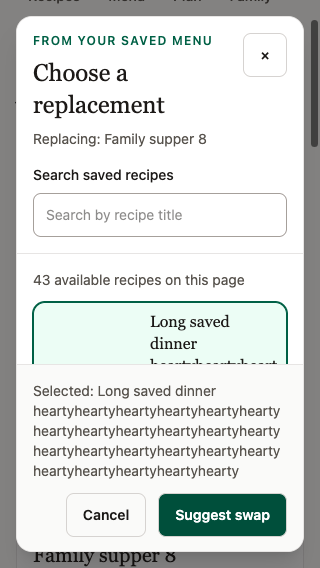
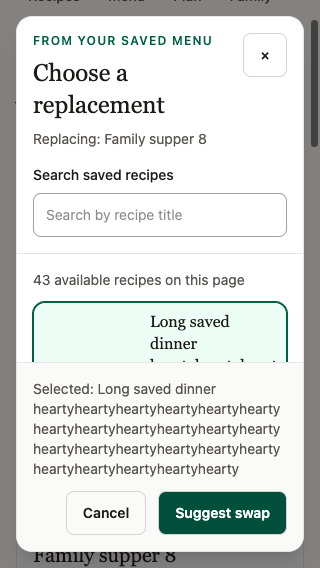
fix: keep swap modal size stable during search

Changed region(s): [[0.0938, 0.6585, 0.9062, 0.9577], [0.2188, 0.868, 0.4375, 0.9577], [0.875, 0.868, 0.9062, 0.8979]]

diff --git a/tests/plans/browser.ts b/tests/plans/browser.ts
@@ -23,7 +23,7 @@ try{
  async function openPicker(day:number){await liveBrowser.click(`[data-plan-suggest="${day}"]`);await liveBrowser.waitFor("Boolean(document.querySelector('dialog[open]')) && document.activeElement.id==='swap-search'",'modal opens with search focus');await liveBrowser.waitFor("document.querySelector('dialog [aria-busy]')?.getAttribute('aria-busy')==='false'",'bounded menu load');}
  async function searchPicker(text:string){await liveBrowser.click('#swap-search');await liveBrowser.evaluate("document.querySelector('#swap-search').select()");await liveBrowser.send('Input.insertText',{text});await liveBrowser.waitFor(`document.querySelector('#swap-search').value===${JSON.stringify(text)} && document.querySelector('dialog [aria-busy]')?.getAttribute('aria-busy')==='false'`,'search results settle');}
  async function choose(title:string){await liveBrowser.click(`[data-swap-choice][aria-label=${JSON.stringify(title)}]`);await liveBrowser.waitFor(`document.querySelector('[data-swap-choice][aria-label='+${JSON.stringify(JSON.stringify(title))}+']')?.getAttribute('aria-pressed')==='true'`,'selected recipe');}
- async function menuFixture(mode:string,delay=0){await liveBrowser.evaluate(`(()=>{const original=window.__swapOriginalFetch??window.fetch.bind(window);window.__swapOriginalFetch=original;window.__swapCancelled=false;window.__swapBodyStarted=false;let used=false;window.fetch=async(input,init)=>{const path=new URL(typeof input==='string'?input:input.url,location.href).pathname;if(used||path!=='/api/menu'||(init?.method??'GET')!=='GET')return original(input,init);used=true;const mode=${JSON.stringify(mode)},delay=${delay};if(mode==='status401'||mode==='status403')return new Response('{}',{status:Number(mode.slice(6))});if(mode==='malformed')return new Response(JSON.stringify({entries:[{bad:true}],nextCursor:null}),{status:200});if(mode==='oversized'||mode==='utf8')return new Response(new ReadableStream({start(c){c.enqueue(mode==='oversized'?new Uint8Array(524289):new Uint8Array([255]));},cancel(){window.__swapCancelled=true;}}));const real=await original(input,init);const text=await real.text();if(mode==='lateHeaders'){await new Promise(r=>setTimeout(r,delay));return new Response(text);}return new Response(new ReadableStream({start(c){window.__swapBodyStarted=true;c.enqueue(new TextEncoder().encode(text.slice(0,10)));setTimeout(()=>{try{c.enqueue(new TextEncoder().encode(text.slice(10)));c.close();}catch{}},delay);},cancel(){window.__swapCancelled=true;}}));};})()`);}
+ async function menuFixture(mode:string,delay=0){await liveBrowser.evaluate(`(()=>{const original=window.__swapOriginalFetch??window.fetch.bind(window);window.__swapOriginalFetch=original;window.__swapCancelled=false;window.__swapBodyStarted=false;let used=false;window.fetch=async(input,init)=>{const path=new URL(typeof input==='string'?input:input.url,location.href).pathname;if(used||path!=='/api/menu'||(init?.method??'GET')!=='GET')return original(input,init);used=true;const mode=${JSON.stringify(mode)},delay=${delay};if(mode==='status401'||mode==='status403')return new Response('{}',{status:Number(mode.slice(6))});if(mode==='empty')return new Response(JSON.stringify({entries:[],nextCursor:null}),{status:200});if(mode==='malformed')return new Response(JSON.stringify({entries:[{bad:true}],nextCursor:null}),{status:200});if(mode==='oversized'||mode==='utf8')return new Response(new ReadableStream({start(c){c.enqueue(mode==='oversized'?new Uint8Array(524289):new Uint8Array([255]));},cancel(){window.__swapCancelled=true;}}));const real=await original(input,init);const text=await real.text();if(mode==='lateHeaders'){await new Promise(r=>setTimeout(r,delay));return new Response(text);}return new Response(new ReadableStream({start(c){window.__swapBodyStarted=true;c.enqueue(new TextEncoder().encode(text.slice(0,10)));setTimeout(()=>{try{c.enqueue(new TextEncoder().encode(text.slice(10)));c.close();}catch{}},delay);},cancel(){window.__swapCancelled=true;}}));};})()`);}
  async function restoreFetch(){await liveBrowser.evaluate("if(window.__swapOriginalFetch){window.fetch=window.__swapOriginalFetch;delete window.__swapOriginalFetch;}");}
 
  for(let n=0;n<54;n++)await saveMenuRecipe(db,identity,allowed,{title:n===53?'Long saved dinner '+ 'hearty'.repeat(23):'Family supper '+n,sourceUrl:'https://example.test/weekly/'+n,imageUrl:n===53?'https://images.recipe-fixture.test/photo.svg':n===52?'https://images.recipe-fixture.test/missing.svg':null,summary:'A saved family dinner.',time:null});
@@ -46,6 +46,20 @@ try{
  for(const width of [320,1440]){await browser.viewport(width);await browser.screenshot(`org/reviews/weekly-plan-draft-${width}.png`);}
 
  const initialSuggestions=(await db.one<{n:number}>('SELECT count(*) AS n FROM meal_plan_suggestions'))?.n;
+ // Compare physical dialog geometry, including the immediate reset/debounce frame.
+ for(const [width,height] of [[320,1000],[768,1000],[1024,1000],[1440,1000],[320,568]]){
+  await browser.send('Emulation.setDeviceMetricsOverride',{width,height,deviceScaleFactor:1,mobile:false});await openPicker(0);
+  const rect=()=>liveBrowser.evaluate<{x:number;y:number;width:number;height:number}>("(()=>{const r=document.querySelector('dialog').getBoundingClientRect();return {x:r.x,y:r.y,width:r.width,height:r.height};})()");
+  const baseline=await rect();let maxDelta=0;
+  async function stable(state:string){await liveBrowser.evaluate('new Promise(resolve=>requestAnimationFrame(()=>requestAnimationFrame(resolve)))');const actual=await rect();const delta=Math.max(...(['x','y','width','height'] as const).map(key=>Math.abs(actual[key]-baseline[key])));maxDelta=Math.max(maxDelta,delta);console.log('Modal geometry',JSON.stringify({viewport:[width,height],state,baseline,actual,delta}));assert.equal(delta<=1,true,`stable dialog frame ${width}x${height} ${state}; delta=${delta}`);assert.equal(actual.x>=0&&actual.y>=0&&actual.x+actual.width<=width&&actual.y+actual.height<=height,true,'frame remains viewport bounded');assert.equal(await liveBrowser.evaluate('document.documentElement.scrollWidth<=innerWidth'),true);}
+  await stable('populated');await menuFixture('lateBody',650);await browser.click('#swap-search');await browser.send('Input.insertText',{text:'F'});await stable('typing F/debounce');await browser.send('Input.insertText',{text:'a'});await stable('typing Fa/debounce');await browser.waitFor('window.__swapBodyStarted');await stable('loading delayed body');await browser.waitFor("document.querySelector('dialog [aria-busy]').getAttribute('aria-busy')==='false'");await stable('populated matches');await restoreFetch();
+  await searchPicker('no such saved title');await stable('no matches');
+  await menuFixture('empty');await browser.click('dialog button.underline');await browser.waitFor("document.querySelector('dialog [aria-busy]').getAttribute('aria-busy')==='false' && document.querySelector('#swap-search').value===''");await stable('empty saved page');await restoreFetch();
+  await menuFixture('malformed');await searchPicker('F');await stable('load error');await browser.click('dialog [role=alert] button');await browser.waitFor("document.querySelectorAll('[data-swap-choice]').length>0");await stable('retry results');await restoreFetch();
+  await browser.click('dialog button.underline');await browser.waitFor("document.querySelector('dialog [aria-busy]').getAttribute('aria-busy')==='false' && document.querySelector('#swap-search').value===''");await choose('Long saved dinner '+ 'hearty'.repeat(23));await stable('long-title selected');await browser.evaluate("document.querySelector('[data-swap-confirm]').scrollIntoView({block:'nearest'})");await stable('selected footer scrolled');assert.equal(await browser.evaluate("(()=>{const r=document.querySelector('[data-swap-confirm]').getBoundingClientRect();return r.top>=0&&r.bottom<=innerHeight;})()"),true,'footer reachable');
+  console.log(`Stable frame ${width}x${height}: maximum delta ${maxDelta}px`);await browser.click('[data-swap-cancel]');
+ }
+
  await openPicker(0);assert.equal(await browser.evaluate("document.querySelector('[data-swap-confirm]').disabled"),true);
  for(const width of [320,1440]){await browser.viewport(width);assert.equal(await browser.evaluate("(()=>{const r=document.querySelector('dialog').getBoundingClientRect(),c=document.querySelector('[aria-label=\"Close recipe picker\"]').getBoundingClientRect();return r.left>=0&&r.right<=innerWidth&&r.top>=0&&r.bottom<=innerHeight&&c.width>=44&&c.height>=44;})()"),true);await browser.screenshot(`org/reviews/swap-picker-browse-${width}.png`);}
  assert.equal(await browser.evaluate("document.querySelector('dialog img')?.getAttribute('referrerpolicy')"),'no-referrer');await browser.waitFor("document.querySelectorAll('dialog img').length===1",'saved image and null/broken fallbacks');

diff --git a/app/plans/swap-recipe-dialog.tsx b/app/plans/swap-recipe-dialog.tsx
@@ -103,8 +103,8 @@ export default function SwapRecipeDialog({ title, plannedSources, trigger, block
     onCancel={event => { event.preventDefault(); dismiss(); }}
     onPointerDown={event => { backdrop.current = event.target === event.currentTarget; }}
     onClick={event => { const bounds = event.currentTarget.getBoundingClientRect(); if (backdrop.current && event.target === event.currentTarget && (event.clientX < bounds.left || event.clientX > bounds.right || event.clientY < bounds.top || event.clientY > bounds.bottom)) dismiss(); }}
-    className="m-auto max-h-[calc(100dvh-2rem)] w-[calc(100%-2rem)] max-w-2xl overflow-x-hidden overflow-y-auto rounded-2xl border border-stone-200 bg-white p-0 text-stone-900 shadow-xl backdrop:bg-stone-950/50">
-    <div className="flex max-h-[calc(100dvh-2rem)] min-h-0 flex-col">
+    className="m-auto h-[min(52rem,calc(100dvh-2rem))] max-h-[calc(100dvh-2rem)] w-[calc(100%-2rem)] max-w-2xl overflow-x-hidden overflow-y-auto rounded-2xl border border-stone-200 bg-white p-0 text-stone-900 shadow-xl backdrop:bg-stone-950/50">
+    <div className="flex h-full min-h-0 flex-col">
       <div className="shrink-0 border-b border-stone-200 p-4 sm:p-6">
         <div className="flex items-start justify-between gap-3"><div><p className="text-xs font-semibold tracking-widest text-emerald-800 uppercase">From your saved menu</p><h2 id="swap-title" className="mt-2 font-serif text-2xl">Choose a replacement</h2></div><button type="button" aria-label="Close recipe picker" onClick={dismiss} className={`${action} min-w-11 shrink-0 px-3`}>×</button></div>
         <p id="swap-context" className="mt-2 text-sm wrap-anywhere text-stone-600">Replacing: {title}</p>
